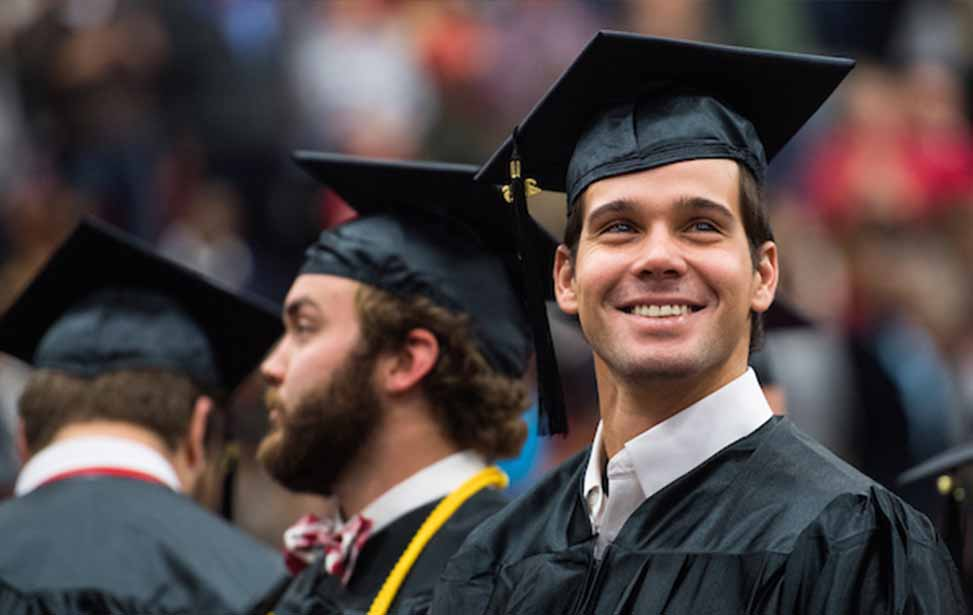
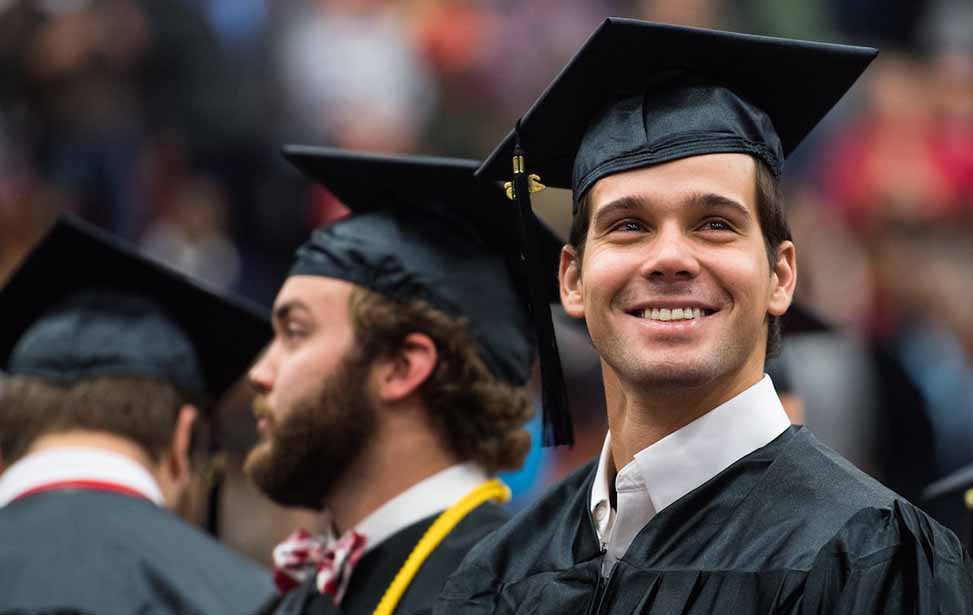
changes on pictures resolution

diff --git a/undergraduate.html b/undergraduate.html
@@ -534,7 +534,7 @@ Apply									</a>
 								<div class="tab-pane fade in" id="profile-2">
 								<div class="heading margin-bottom-10">
 							<h2>Accreditation</h2></div>		
-			  						<img class="col-sm-8 col-md-6 col-lg-6 img-responsive margin-bottom-20" src="assets/img/programs/ELI01.jpg" alt="">
+			  						<img class="col-sm-8 col-md-6 col-lg-6 img-responsive margin-bottom-20" src="assets/img/programs/Undergraduate01.jpg" alt="">
 									<p>All of our academic programs are accredited. Some of our programs are accredited by worldwide accreditation bodies such as:
 									Our Computer Science and Information System is recognized by Computing Accreditation commission of ABET
 									Our school of business and industry is recognized by AACSB International 
